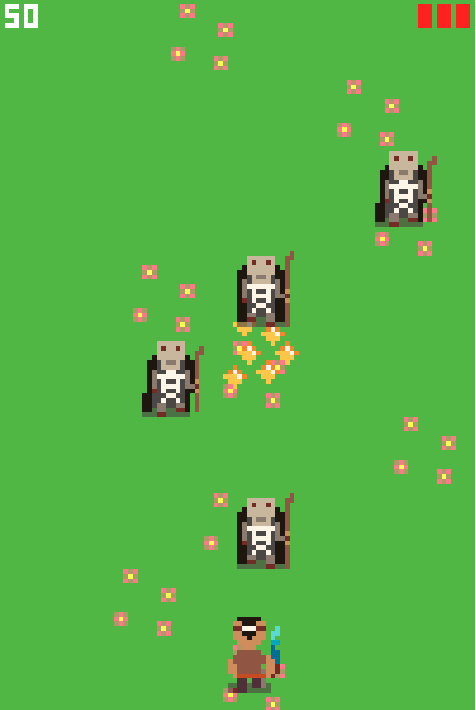
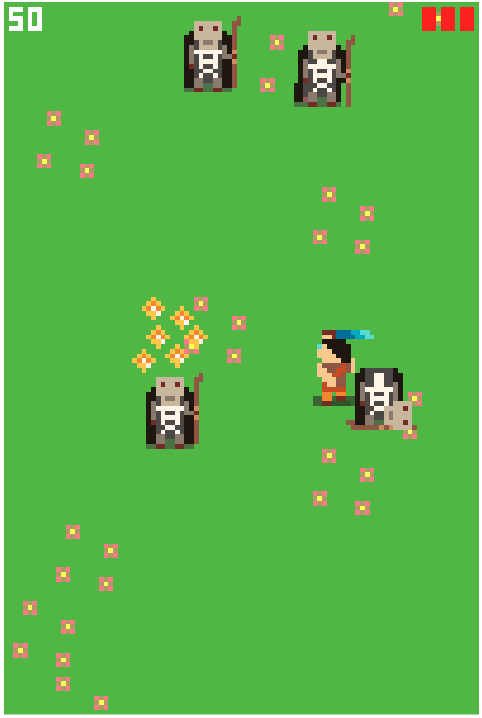
New gameplay

diff --git a/dist/bundle.js b/dist/bundle.js
@@ -1,1 +1,1 @@
-!function(t){var e={};function a(n){if(e[n])return e[n].exports;var r=e[n]={i:n,l:!1,exports:{}};return t[n].call(r.exports,r,r.exports,a),r.l=!0,r.exports}a.m=t,a.c=e,a.d=function(t,e,n){a.o(t,e)||Object.defineProperty(t,e,{enumerable:!0,get:n})},a.r=function(t){"undefined"!=typeof Symbol&&Symbol.toStringTag&&Object.defineProperty(t,Symbol.toStringTag,{value:"Module"}),Object.defineProperty(t,"__esModule",{value:!0})},a.t=function(t,e){if(1&e&&(t=a(t)),8&e)return t;if(4&e&&"object"==typeof t&&t&&t.__esModule)return t;var n=Object.create(null);if(a.r(n),Object.defineProperty(n,"default",{enumerable:!0,value:t}),2&e&&"string"!=typeof t)for(var r in t)a.d(n,r,function(e){return t[e]}.bind(null,r));return n},a.n=function(t){var e=t&&t.__esModule?function(){return t.default}:function(){return t};return a.d(e,"a",e),e},a.o=function(t,e){return Object.prototype.hasOwnProperty.call(t,e)},a.p="",a(a.s=2)}([function(t,e){kontra.init(),kontra.canvas.width=100,kontra.canvas.height=150,kontra.getImage=function(t){const e=new Image;return e.src=t,e},kontra.clear=function(){kontra.context.clearRect(0,0,kontra.canvas.width,kontra.canvas.height)},kontra.gameLoopEmpty=function(){return kontra.gameLoop({clearCanvas:!1,update(t){},render(){}})},kontra.getRandomInt=function(t,e){return Math.floor(Math.random()*(e-t))+t}},function(t,e){!function(){var t=t={A:[[,1],[1,,1],[1,,1],[1,1,1],[1,,1]],B:[[1,1],[1,,1],[1,1,1],[1,,1],[1,1]],C:[[1,1,1],[1],[1],[1],[1,1,1]],D:[[1,1],[1,,1],[1,,1],[1,,1],[1,1]],E:[[1,1,1],[1],[1,1,1],[1],[1,1,1]],F:[[1,1,1],[1],[1,1],[1],[1]],G:[[,1,1],[1],[1,,1,1],[1,,,1],[,1,1]],H:[[1,,1],[1,,1],[1,1,1],[1,,1],[1,,1]],I:[[1,1,1],[,1],[,1],[,1],[1,1,1]],J:[[1,1,1],[,,1],[,,1],[1,,1],[1,1,1]],K:[[1,,,1],[1,,1],[1,1],[1,,1],[1,,,1]],L:[[1],[1],[1],[1],[1,1,1]],M:[[1,1,1,1,1],[1,,1,,1],[1,,1,,1],[1,,,,1],[1,,,,1]],N:[[1,,,1],[1,1,,1],[1,,1,1],[1,,,1],[1,,,1]],O:[[1,1,1],[1,,1],[1,,1],[1,,1],[1,1,1]],P:[[1,1,1],[1,,1],[1,1,1],[1],[1]],Q:[[0,1,1],[1,,,1],[1,,,1],[1,,1,1],[1,1,1,1]],R:[[1,1],[1,,1],[1,,1],[1,1],[1,,1]],S:[[1,1,1],[1],[1,1,1],[,,1],[1,1,1]],T:[[1,1,1],[,1],[,1],[,1],[,1]],U:[[1,,1],[1,,1],[1,,1],[1,,1],[1,1,1]],V:[[1,,,,1],[1,,,,1],[,1,,1],[,1,,1],[,,1]],W:[[1,,,,1],[1,,,,1],[1,,,,1],[1,,1,,1],[1,1,1,1,1]],X:[[1,,,,1],[,1,,1],[,,1],[,1,,1],[1,,,,1]],Y:[[1,,1],[1,,1],[,1],[,1],[,1]],Z:[[1,1,1,1,1],[,,,1],[,,1],[,1],[1,1,1,1,1]],0:[[1,1,1],[1,,1],[1,,1],[1,,1],[1,1,1]],1:[[,1],[,1],[,1],[,1],[,1]],2:[[1,1,1],[0,0,1],[1,1,1],[1,0,0],[1,1,1]],3:[[1,1,1],[0,0,1],[1,1,1],[0,0,1],[1,1,1]],4:[[1,0,1],[1,0,1],[1,1,1],[0,0,1],[0,0,1]],5:[[1,1,1],[1,0,0],[1,1,1],[0,0,1],[1,1,1]],6:[[1,1,1],[1,0,0],[1,1,1],[1,0,1],[1,1,1]],7:[[1,1,1],[0,0,1],[0,0,1],[0,0,1],[0,0,1]],8:[[1,1,1],[1,0,1],[1,1,1],[1,0,1],[1,1,1]],9:[[1,1,1],[1,0,1],[1,1,1],[0,0,1],[1,1,1]],"|":[[1,1,1],[1,1,1],[1,1,1],[1,1,1],[1,1,1]],"-":[[0,0,0],[0,0,0],[1,1,1],[0,0,0],[0,0,0]]," ":[[,,],[,,],[,,],[,,],[,,]]},e=kontra.context;kontra.drawText=function(a,n,r,o){var s=[];a=a.toUpperCase();for(var i=0;i<a.length;i++){var h=t[a.charAt(i)];h&&s.push(h)}e.fillStyle=o||"black";var c=r&&r.x||0;for(i=0;i<s.length;i++){h=s[i];for(var d=r&&r.y||0,f=0,l=0;l<h.length;l++){for(var u=h[l],k=0;k<u.length;k++)u[k]&&e.fillRect(c+k*n,d,n,n);f=Math.max(f,u.length*n),d+=n}c+=n+f}},kontra.drawTextCenter=function(t,e,a,n){(a=a||{}).x=a.x||0,a.x+=kontra.canvas.width/2-(3*t.length+t.length)*e/2,kontra.drawText(t,e,a,n)}}()},function(t,e,a){"use strict";a.r(e);a(0),a(1);var n={states:[],state:null,clear(){kontra.context.clearRect(0,0,kontra.canvas.width,kontra.canvas.height)},init(){const t=this;return["onUp","onDown"].forEach(function(e){kontra.pointer[e](function(a,n){let r=a.x-7,o=a.y-7;if(r<=kontra.canvas.width&&o<=kontra.canvas.height&&t.state&&t.state.scene[e]){const a={x:r,y:o};t.state.scene[e](a,n)}})}),this},switch(t){if(this.clear(),this.states.forEach(t=>{t.scene.isStopped||(t.scene.destroy&&t.scene.destroy(),t.scene.stop())}),"string"==typeof t)this.states.forEach(e=>{e.key==t&&(e.scene.init&&e.scene.init(),e.scene.start(),this.state=e)});else{const e=this.states[t];e.scene.init&&e.scene.init(),e.scene.start(),this.state=e}},addScene(t,e){return e.load&&e.load(),this.states.push({key:t,scene:e}),this}}.init();const r={phase:"up",x:-1,y:-1};let o,s,i,h,c=[],d=[],f=[],l=0;const u=kontra.gameLoop({update(t){if(d.forEach(e=>{e.update(t)}),f.forEach(e=>{e.update(t)}),c.forEach(e=>{e.update(t)}),o.update(t),i(),h(),"down"===r.phase){let t=r.x-o.x-o.width/2,e=r.y-o.y-o.height/2;isNaN(t)||0===t||(o.x+=t/Math.abs(t)),isNaN(e)||0===e||(o.y+=e/Math.abs(e))}},render(){d.forEach(t=>{t.render()}),f.forEach(t=>{t.render()});var t=[o,...c];t.sort((t,e)=>t.y-e.y),t.forEach(t=>{t.render()}),kontra.drawText(String(Math.floor(o.score)),1,{x:1,y:1},"#fff");var e=Array(o.health+1).join("|");kontra.drawText(e,1,{x:kontra.canvas.width-(3*o.health+o.health),y:1},"red")}});u.load=function(){const t=kontra.spriteSheet({image:kontra.getImage("./assets/runner13k.png"),frameWidth:16,frameHeight:16,animations:{walk:{frames:[0,1],frameRate:8},enemyWalk:{frames:[6,7],frameRate:6},attack:{frames:[2,3],frameRate:8},jump:{frames:4,frameRate:1,loop:!1},heart:{frames:5,frameRate:1,loop:!1},gold:{frames:8,frameRate:1,loop:!1},grass:{frames:9,frameRate:1,loop:!1}}});o=kontra.sprite({type:"player",x:0,y:kontra.canvas.height-16,animations:t.animations,playerState:"walk",prevPlayerState:"walk",health:3,score:0,collidesWith(t){return this.x<t.x+t.width-2&&this.x+this.width-2>t.x&&this.y<t.y+t.height&&this.y+this.height>t.y},update(t){this.advance(t),this.playerState="walk",kontra.keys.pressed("left")&&o.x>0?(this.x-=1,this.playerState="walk"):kontra.keys.pressed("right")&&this.x+this.width<kontra.canvas.width&&(this.x+=1,this.playerState="walk"),kontra.keys.pressed("up")&&this.y>0?(this.y-=1,this.playerState="walk"):kontra.keys.pressed("down")&&this.y+this.height<kontra.canvas.height&&(this.y+=1,this.playerState="walk"),f.forEach((t,e)=>{this.collidesWith(t)&&(this.score+=50,f.splice(e,1))}),this.prevPlayerState!=this.playerState&&(this.playAnimation(this.playerState),this.prevPlayerState=this.playerState)}}),i=function(){if(c.length<10&&+new Date-l>1e3){l=+new Date;var e=kontra.sprite({type:"enemy",x:kontra.getRandomInt(0,kontra.canvas.width-16),y:kontra.getRandomInt(-kontra.canvas.height,-16),animations:t.animations,collidesWith(t){return this.x<t.x+t.width-2&&this.x+this.width-2>t.x&&this.y<t.y+t.height&&this.y+this.height>t.y},update(t){this.advance(t),this.y++,this.y>kontra.canvas.height&&(this.y=-this.height,this.x=kontra.getRandomInt(0,kontra.canvas.width-16))}});e.playAnimation("enemyWalk"),c.push(e)}},(s=kontra.sprite({type:"heart",x:kontra.canvas.width-16,y:-1,animations:t.animations})).playAnimation("heart");const e=function(e,a,n){return{type:n,x:e,y:a,animations:t.animations,d:!1,update(t){this.advance(t),this.d&&(this.y+=1),this.d=!this.d,this.y>kontra.canvas.height&&(this.y=-this.height,this.x=kontra.getRandomInt(0,kontra.canvas.width-16))}}};for(let t=0;t<kontra.canvas.height/16;t++)d.push(kontra.sprite(e(kontra.getRandomInt(0,kontra.canvas.width-16),16*t,"grass")));d.forEach(t=>{t.playAnimation("grass")}),h=function(){if(f.length<2){var t=kontra.sprite(e(kontra.getRandomInt(0,kontra.canvas.width-16),kontra.getRandomInt(0,-kontra.canvas.height-16),"gold"));t.playAnimation("gold"),f.push(t)}}},u.init=function(){kontra.canvas.style.background="#66b632ff",kontra.keys.bind("esc",function(){n.switch("menu")})},u.destroy=function(){kontra.keys.unbind("esc")},u.onDown=function(t){r.x=t.x,r.y=t.y,r.phase="down"},u.onUp=function(t){r.phase="up"};var k=u;const y=kontra.gameLoopEmpty();y.init=function(){kontra.canvas.style.background="#268B67",kontra.keys.bind("enter",function(){n.switch("game")}),[["Runner",3,kontra.canvas.height/2-45,"#CF6A39"],["Press enter",1,kontra.canvas.height/2-15,"#7B112B"],["esc - pause",1,kontra.canvas.height/2+10,"#E79269"]].forEach(t=>{kontra.drawTextCenter(t[0],t[1],{y:t[2]},t[3]||"#fff")})},y.destroy=function(){kontra.keys.unbind("enter")},y.onUp=function(){n.switch("game")};var p=y;const g=kontra.gameLoopEmpty();g.init=function(){kontra.canvas.style.background="#000",kontra.keys.bind("enter",function(){n.switch("menu")}),setTimeout(()=>{kontra.clear(),[["Game Over",2,{x:-2,y:kontra.canvas.height/2-15}],["Press enter",1,{y:kontra.canvas.height/2}]].forEach(t=>{kontra.drawTextCenter(t[0],t[1],t[2],t[3]||"#fff")})})},g.destroy=function(){kontra.keys.unbind("enter")},g.onUp=function(){n.switch("menu")};var m=g;kontra.assets.load("./assets/runner13k.png").then(function(){n.addScene("menu",p).addScene("game",k).addScene("gameover",m).switch("menu")}).catch(function(t){console.error(t)})}]);
+!function(t){var n={};function e(a){if(n[a])return n[a].exports;var r=n[a]={i:a,l:!1,exports:{}};return t[a].call(r.exports,r,r.exports,e),r.l=!0,r.exports}e.m=t,e.c=n,e.d=function(t,n,a){e.o(t,n)||Object.defineProperty(t,n,{enumerable:!0,get:a})},e.r=function(t){"undefined"!=typeof Symbol&&Symbol.toStringTag&&Object.defineProperty(t,Symbol.toStringTag,{value:"Module"}),Object.defineProperty(t,"__esModule",{value:!0})},e.t=function(t,n){if(1&n&&(t=e(t)),8&n)return t;if(4&n&&"object"==typeof t&&t&&t.__esModule)return t;var a=Object.create(null);if(e.r(a),Object.defineProperty(a,"default",{enumerable:!0,value:t}),2&n&&"string"!=typeof t)for(var r in t)e.d(a,r,function(n){return t[n]}.bind(null,r));return a},e.n=function(t){var n=t&&t.__esModule?function(){return t.default}:function(){return t};return e.d(n,"a",n),n},e.o=function(t,n){return Object.prototype.hasOwnProperty.call(t,n)},e.p="",e(e.s=2)}([function(t,n){kontra.init(),kontra.canvas.width=100,kontra.canvas.height=150,kontra.getImage=function(t){const n=new Image;return n.src=t,n},kontra.clear=function(){kontra.context.clearRect(0,0,kontra.canvas.width,kontra.canvas.height)},kontra.gameLoopEmpty=function(){return kontra.gameLoop({clearCanvas:!1,update(t){},render(){}})},kontra.getRandomInt=function(t,n){return Math.floor(Math.random()*(n-t))+t}},function(t,n){!function(){var t=t={A:[[,1],[1,,1],[1,,1],[1,1,1],[1,,1]],B:[[1,1],[1,,1],[1,1,1],[1,,1],[1,1]],C:[[1,1,1],[1],[1],[1],[1,1,1]],D:[[1,1],[1,,1],[1,,1],[1,,1],[1,1]],E:[[1,1,1],[1],[1,1,1],[1],[1,1,1]],F:[[1,1,1],[1],[1,1],[1],[1]],G:[[,1,1],[1],[1,,1,1],[1,,,1],[,1,1]],H:[[1,,1],[1,,1],[1,1,1],[1,,1],[1,,1]],I:[[1,1,1],[,1],[,1],[,1],[1,1,1]],J:[[1,1,1],[,,1],[,,1],[1,,1],[1,1,1]],K:[[1,,,1],[1,,1],[1,1],[1,,1],[1,,,1]],L:[[1],[1],[1],[1],[1,1,1]],M:[[1,1,1,1,1],[1,,1,,1],[1,,1,,1],[1,,,,1],[1,,,,1]],N:[[1,,,1],[1,1,,1],[1,,1,1],[1,,,1],[1,,,1]],O:[[1,1,1],[1,,1],[1,,1],[1,,1],[1,1,1]],P:[[1,1,1],[1,,1],[1,1,1],[1],[1]],Q:[[0,1,1],[1,,,1],[1,,,1],[1,,1,1],[1,1,1,1]],R:[[1,1],[1,,1],[1,,1],[1,1],[1,,1]],S:[[1,1,1],[1],[1,1,1],[,,1],[1,1,1]],T:[[1,1,1],[,1],[,1],[,1],[,1]],U:[[1,,1],[1,,1],[1,,1],[1,,1],[1,1,1]],V:[[1,,,,1],[1,,,,1],[,1,,1],[,1,,1],[,,1]],W:[[1,,,,1],[1,,,,1],[1,,,,1],[1,,1,,1],[1,1,1,1,1]],X:[[1,,,,1],[,1,,1],[,,1],[,1,,1],[1,,,,1]],Y:[[1,,1],[1,,1],[,1],[,1],[,1]],Z:[[1,1,1,1,1],[,,,1],[,,1],[,1],[1,1,1,1,1]],0:[[1,1,1],[1,,1],[1,,1],[1,,1],[1,1,1]],1:[[,1],[,1],[,1],[,1],[,1]],2:[[1,1,1],[0,0,1],[1,1,1],[1,0,0],[1,1,1]],3:[[1,1,1],[0,0,1],[1,1,1],[0,0,1],[1,1,1]],4:[[1,0,1],[1,0,1],[1,1,1],[0,0,1],[0,0,1]],5:[[1,1,1],[1,0,0],[1,1,1],[0,0,1],[1,1,1]],6:[[1,1,1],[1,0,0],[1,1,1],[1,0,1],[1,1,1]],7:[[1,1,1],[0,0,1],[0,0,1],[0,0,1],[0,0,1]],8:[[1,1,1],[1,0,1],[1,1,1],[1,0,1],[1,1,1]],9:[[1,1,1],[1,0,1],[1,1,1],[0,0,1],[1,1,1]],"|":[[1,1,1],[1,1,1],[1,1,1],[1,1,1],[1,1,1]],"-":[[0,0,0],[0,0,0],[1,1,1],[0,0,0],[0,0,0]]," ":[[,,],[,,],[,,],[,,],[,,]]},n=kontra.context;kontra.drawText=function(e,a,r,o){var s=[];e=e.toUpperCase();for(var i=0;i<e.length;i++){var c=t[e.charAt(i)];c&&s.push(c)}n.fillStyle=o||"black";var h=r&&r.x||0;for(i=0;i<s.length;i++){c=s[i];for(var d=r&&r.y||0,f=0,u=0;u<c.length;u++){for(var k=c[u],l=0;l<k.length;l++)k[l]&&n.fillRect(h+l*a,d,a,a);f=Math.max(f,k.length*a),d+=a}h+=a+f}},kontra.drawTextCenter=function(t,n,e,a){(e=e||{}).x=e.x||0,e.x+=kontra.canvas.width/2-(3*t.length+t.length)*n/2,kontra.drawText(t,n,e,a)}}()},function(t,n,e){"use strict";e.r(n);e(0),e(1);var a={states:[],state:null,clear(){kontra.context.clearRect(0,0,kontra.canvas.width,kontra.canvas.height)},init(){const t=this;return["onUp","onDown"].forEach(function(n){kontra.pointer[n](function(e,a){let r=e.x-7,o=e.y-7;if(r<=kontra.canvas.width&&o<=kontra.canvas.height&&t.state&&t.state.scene[n]){const e={x:r,y:o};t.state.scene[n](e,a)}})}),this},switch(t){if(this.clear(),this.states.forEach(t=>{t.scene.isStopped||(t.scene.destroy&&t.scene.destroy(),t.scene.stop())}),"string"==typeof t)this.states.forEach(n=>{n.key==t&&(n.scene.init&&n.scene.init(),n.scene.start(),this.state=n)});else{const n=this.states[t];n.scene.init&&n.scene.init(),n.scene.start(),this.state=n}},addScene(t,n){return n.load&&n.load(),this.states.push({key:t,scene:n}),this}}.init();const r={phase:"up",x:-1,y:-1};let o,s,i,c=[],h=[],d=[],f=0;const u=kontra.gameLoop({update(t){if(h.forEach(n=>{n.update(t)}),d.forEach(n=>{n.update(t)}),c.forEach(n=>{n.update(t)}),o.update(t),s(),i(),"down"===r.phase){let t=r.x-o.x-o.width/2,n=r.y-o.y-o.height/2;isNaN(t)||0===t||(o.x+=t/Math.abs(t)),isNaN(n)||0===n||(o.y+=n/Math.abs(n))}},render(){h.forEach(t=>{t.render()}),d.forEach(t=>{t.render()});var t=[o,...c];t.sort((t,n)=>t.y-n.y),t.forEach(t=>{t.render()}),kontra.drawText(String(Math.floor(o.score)),1,{x:1,y:1},"#fff");var n=Array(o.health+1).join("|");kontra.drawText(n,1,{x:kontra.canvas.width-(3*o.health+o.health),y:1},"red")}});u.load=function(){const t=kontra.spriteSheet({image:kontra.getImage("./assets/runner13k.png"),frameWidth:16,frameHeight:16,animations:{player:{frames:[0,1,2,2,1,0],frameRate:8},enemyWalk:{frames:[3,4],frameRate:6},enemyDead:{frames:5,frameRate:1,loop:!1},gold:{frames:[7,8],frameRate:2},grass:{frames:6,frameRate:1,loop:!1}}});(o=kontra.sprite({type:"player",x:0,y:kontra.canvas.height-16,animations:t.animations,health:3,score:0,update(t){this.advance(t),kontra.keys.pressed("left")&&o.x>0?this.x-=1:kontra.keys.pressed("right")&&this.x+this.width<kontra.canvas.width&&(this.x+=1),kontra.keys.pressed("up")&&this.y>0?this.y-=1:kontra.keys.pressed("down")&&this.y+this.height<kontra.canvas.height&&(this.y+=1),d.forEach((t,n)=>{this.collidesWith(t)&&(this.score+=50,d.splice(n,1))}),this.health<=0&&(a.switch("gameover"),this.health=3,this.score=0,c=[])}})).playAnimation("player"),s=function(){if(c.length<5&&+new Date-f>1e3){f=+new Date;var n=kontra.sprite({type:"enemy",x:kontra.getRandomInt(0,kontra.canvas.width-16),y:kontra.getRandomInt(-kontra.canvas.height,-16),animations:t.animations,d:!1,isDead:!1,update(t){this.advance(t),this.d&&(this.y+=1),this.d=!this.d,this.y>kontra.canvas.height&&(this.isDead||o.health--,c.forEach((t,n)=>{t==this&&c.splice(n,1)})),this.isDead||this.collidesWith(o)&&(this.isDead=!0,this.playAnimation("enemyDead"))}});n.playAnimation("enemyWalk"),c.push(n)}};const n=function(n,e,a){return{type:a,x:n,y:e,animations:t.animations,d:0,update(t){this.advance(t),1===this.d?(this.y+=1,this.d=0):this.d++,this.y>kontra.canvas.height&&("gold"===this.type&&(o.score-=100),this.y=-this.height,this.x=kontra.getRandomInt(0,kontra.canvas.width-16))}}};for(let t=0;t<kontra.canvas.height/16;t++)h.push(kontra.sprite(n(kontra.getRandomInt(0,kontra.canvas.width-16),16*t,"grass")));h.forEach(t=>{t.playAnimation("grass")}),i=function(){if(d.length<2){var t=kontra.sprite(n(kontra.getRandomInt(0,kontra.canvas.width-16),kontra.getRandomInt(0,-kontra.canvas.height-16),"gold"));t.playAnimation("gold"),d.push(t)}}},u.init=function(){kontra.canvas.style.background="#66b632ff",kontra.keys.bind("esc",function(){a.switch("menu")})},u.destroy=function(){kontra.keys.unbind("esc")},u.onDown=function(t){r.x=t.x,r.y=t.y,r.phase="down"},u.onUp=function(t){r.phase="up"};var k=u;const l=kontra.gameLoopEmpty();l.init=function(){kontra.canvas.style.background="#268B67",kontra.keys.bind("enter",function(){a.switch("game")}),[["Fknight",3,kontra.canvas.height/2-45,"#CF6A39"],["Press enter",1,kontra.canvas.height/2-15,"#7B112B"],["esc - pause",1,kontra.canvas.height/2+10,"#E79269"]].forEach(t=>{kontra.drawTextCenter(t[0],t[1],{y:t[2]},t[3]||"#fff")})},l.destroy=function(){kontra.keys.unbind("enter")},l.onUp=function(){a.switch("game")};var p=l;const y=kontra.gameLoopEmpty();y.init=function(){kontra.canvas.style.background="#000",kontra.keys.bind("enter",function(){a.switch("menu")}),setTimeout(()=>{kontra.clear(),[["Game Over",2,{x:-2,y:kontra.canvas.height/2-15}],["Press enter",1,{y:kontra.canvas.height/2}]].forEach(t=>{kontra.drawTextCenter(t[0],t[1],t[2],t[3]||"#fff")})})},y.destroy=function(){kontra.keys.unbind("enter")},y.onUp=function(){a.switch("menu")};var g=y;kontra.assets.load("./assets/runner13k.png").then(function(){a.addScene("menu",p).addScene("game",k).addScene("gameover",g).switch("menu")}).catch(function(t){console.error(t)})}]);

diff --git a/src/scenes/game.js b/src/scenes/game.js
@@ -7,7 +7,6 @@ const controller = {
 };
 
 let player;
-let heart;
 let enemies = [];
 let grasses = [];
 let golds = [];
@@ -72,35 +71,25 @@ game.load = function () {
         frameHeight: 16,
 
         animations: {
-            walk: {
-                frames: [0, 1],
+            player: {
+                frames: [0, 1, 2, 2, 1, 0],
                 frameRate: 8,
             },
             enemyWalk: {
-                frames: [6, 7],
+                frames: [3, 4],
                 frameRate: 6,
             },
-            attack: {
-                frames: [2, 3],
-                frameRate: 8,
-            },
-            jump: {
-                frames: 4,
-                frameRate: 1,
-                loop: false
-            },
-            heart: {
+            enemyDead: {
                 frames: 5,
                 frameRate: 1,
                 loop: false
             },
             gold: {
-                frames: 8,
-                frameRate: 1,
-                loop: false
+                frames: [7, 8],
+                frameRate: 2
             },
             grass: {
-                frames: 9,
+                frames: 6,
                 frameRate: 1,
                 loop: false
             },
@@ -111,35 +100,22 @@ game.load = function () {
         x: 0,
         y: kontra.canvas.height - 16,
         animations: spriteSheet.animations,
-        playerState: 'walk',
-        prevPlayerState: 'walk',
         health: 3,
         score: 0,
-        collidesWith(object) {
-            return this.x < object.x + object.width - 2 &&
-                this.x + this.width - 2 > object.x &&
-                this.y < object.y + object.height &&
-                this.y + this.height > object.y;
-        },
         update(dt) {
             this.advance(dt);
 
-            this.playerState = 'walk';
             if (kontra.keys.pressed('left') && player.x > 0) {
                 this.x -= 1;
-                this.playerState = 'walk';
             }
             else if (kontra.keys.pressed('right') && this.x + this.width < kontra.canvas.width) {
                 this.x += 1;
-                this.playerState = 'walk';
             }
             if (kontra.keys.pressed('up') && this.y > 0) {
                 this.y -= 1;
-                this.playerState = 'walk';
             }
             else if (kontra.keys.pressed('down') && this.y + this.height < kontra.canvas.height) {
                 this.y += 1;
-                this.playerState = 'walk';
             }
             golds.forEach((gold, index) => {
                 if (this.collidesWith(gold)) {
@@ -147,33 +123,47 @@ game.load = function () {
                     golds.splice(index, 1);
                 }
             })
-            if (this.prevPlayerState != this.playerState) {
-                this.playAnimation(this.playerState);
-                this.prevPlayerState = this.playerState;
+            if (this.health <= 0) {
+                State.switch('gameover');
+                this.health = 3;
+                this.score = 0;
+                enemies = [];
             }
         }
     });
+    player.playAnimation('player')
 
     createEnemy = function () {
-        if (enemies.length < 10 && +new Date() - lastEnemyTime > 1000) {
+        if (enemies.length < 5 && +new Date() - lastEnemyTime > 1000) {
             lastEnemyTime = +new Date();
             var enemy = kontra.sprite({
                 type: 'enemy',
                 x: kontra.getRandomInt(0, kontra.canvas.width - 16),
                 y: kontra.getRandomInt(-kontra.canvas.height, -16),
                 animations: spriteSheet.animations,
-                collidesWith(object) {
-                    return this.x < object.x + object.width - 2 &&
-                        this.x + this.width - 2 > object.x &&
-                        this.y < object.y + object.height &&
-                        this.y + this.height > object.y;
-                },
+                d: false,
+                isDead: false,
                 update(dt) {
                     this.advance(dt);
-                    this.y++;
+                    if (this.d) {
+                        this.y += 1;
+                    }
+                    this.d = !this.d;
                     if (this.y > kontra.canvas.height) {
-                        this.y = -this.height;
-                        this.x = kontra.getRandomInt(0, kontra.canvas.width - 16);
+                        if (!this.isDead) {
+                            player.health--;
+                        }
+                        enemies.forEach((enemy, index) => {
+                            if (enemy == this) {
+                                enemies.splice(index, 1);
+                            }
+                        })
+                    }
+                    if (!this.isDead) {
+                        if (this.collidesWith(player)) {
+                            this.isDead = true;
+                            this.playAnimation('enemyDead');
+                        }
                     }
                 }
             });
@@ -182,28 +172,25 @@ game.load = function () {
         }
     };
 
-    heart = kontra.sprite({
-        type: 'heart',
-        x: kontra.canvas.width - 16,
-        y: -1,
-        animations: spriteSheet.animations
-    });
-    heart.playAnimation('heart');
-
     const getObj = function (x, y, type) {
         return {
             type: type,
             x: x,
             y: y,
             animations: spriteSheet.animations,
-            d: false,
+            d: 0,
             update(dt) {
                 this.advance(dt);
-                if (this.d) {
+                if (this.d === 1) {
                     this.y += 1;
+                    this.d = 0;
+                } else {
+                    this.d++;
                 }
-                this.d = !this.d
                 if (this.y > kontra.canvas.height) {
+                    if (this.type === 'gold') {
+                        player.score -= 100;
+                    }
                     this.y = -this.height;
                     this.x = kontra.getRandomInt(0, kontra.canvas.width - 16);
                 }
@@ -228,6 +215,7 @@ game.load = function () {
             golds.push(gold);
         }
     };
+
 }
 
 game.init = function () {

diff --git a/src/scenes/menu.js b/src/scenes/menu.js
@@ -8,7 +8,7 @@ menu.init = function () {
         State.switch('game');
     });
     const textArr = [
-        ['Runner', 3, kontra.canvas.height / 2 - 45, '#CF6A39'],
+        ['Fknight', 3, kontra.canvas.height / 2 - 45, '#CF6A39'],
         ['Press enter', 1, kontra.canvas.height / 2 - 15, '#7B112B'],
         ['esc - pause', 1, kontra.canvas.height / 2 + 10 * 1, '#E79269'],
     ];
